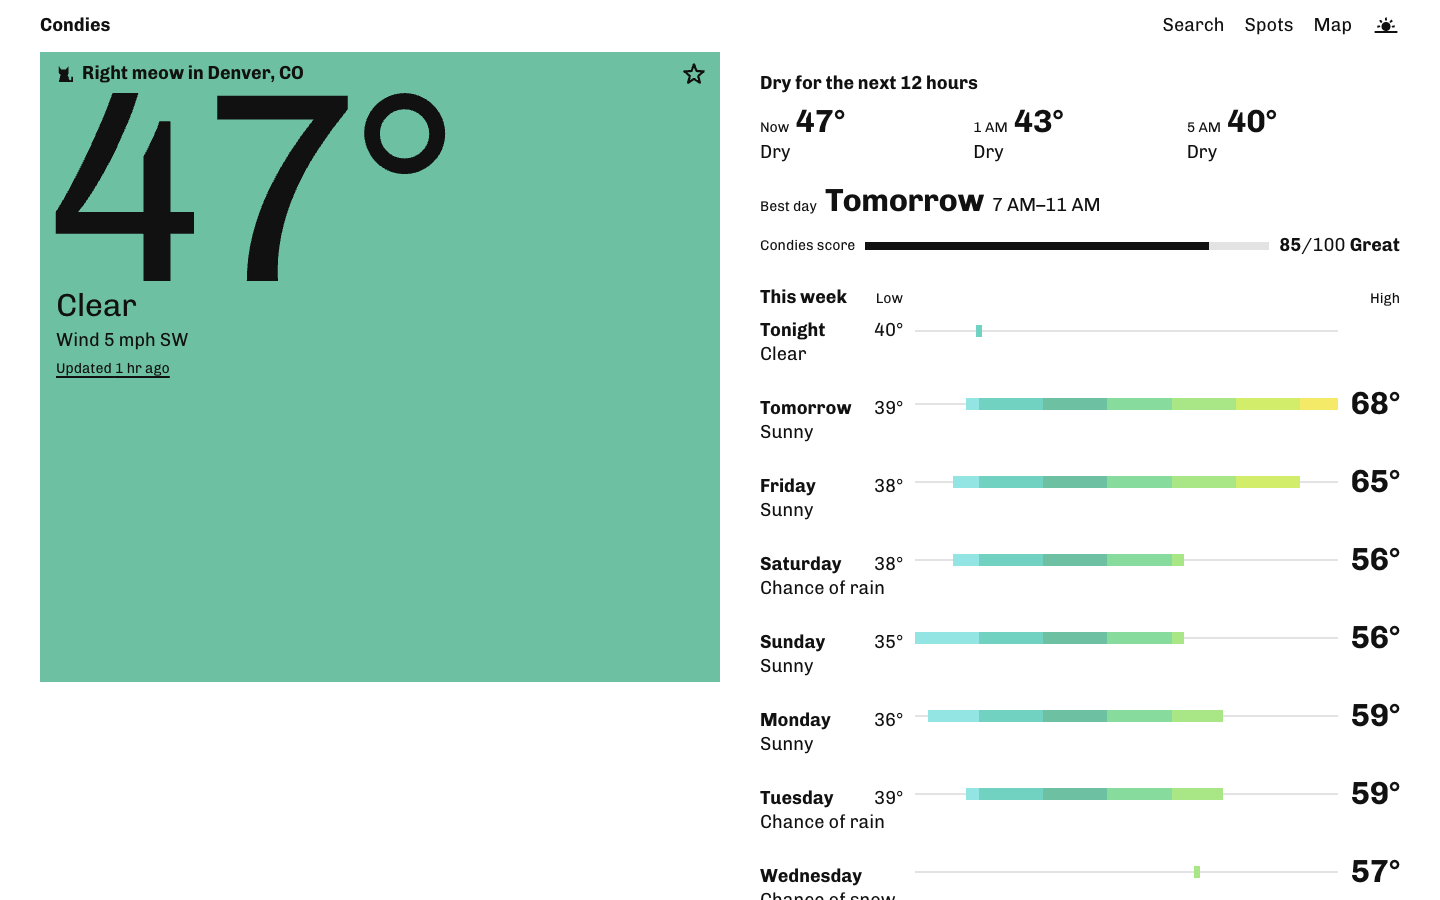
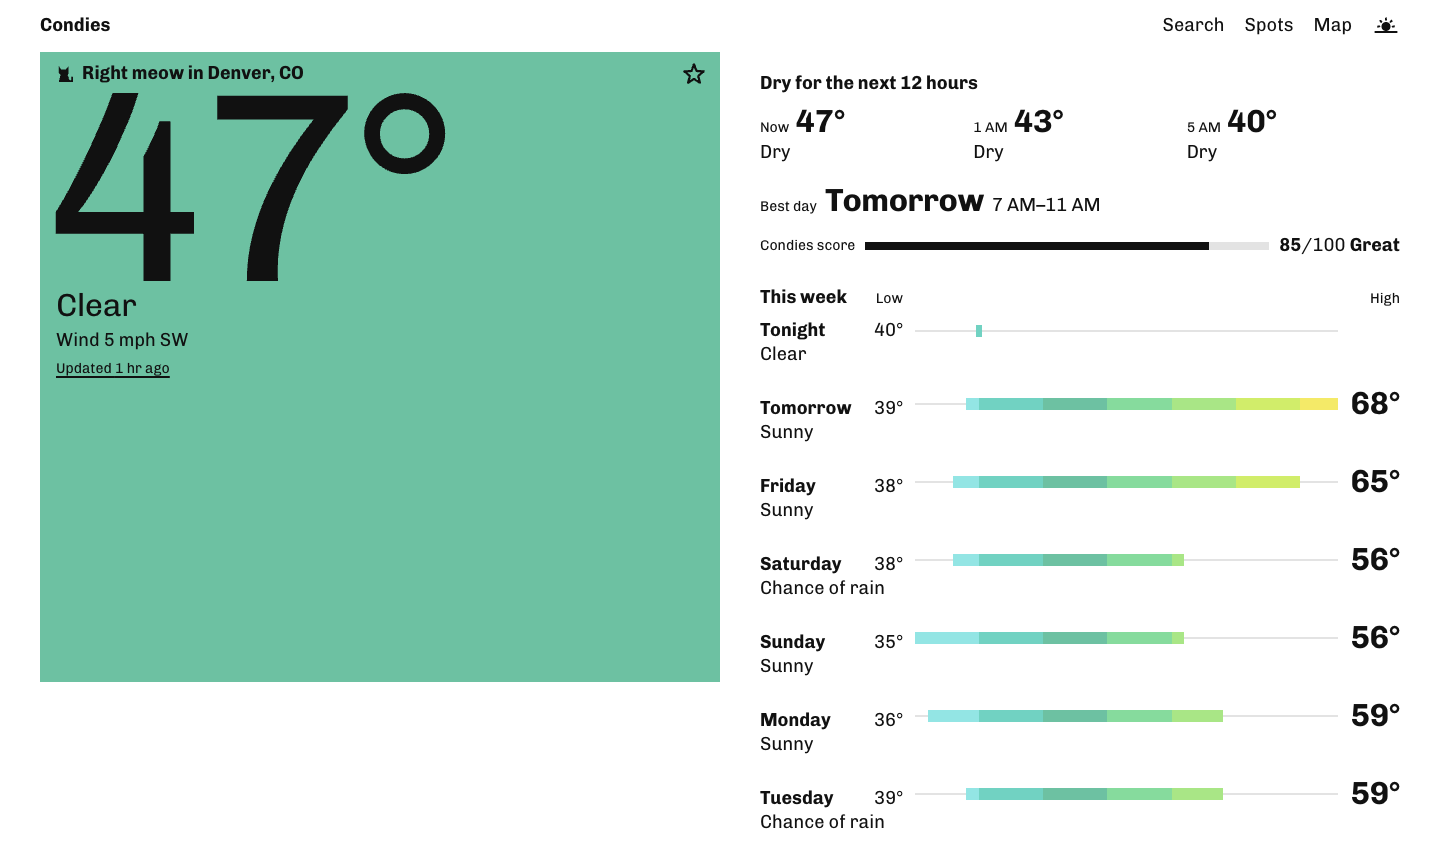
Fix the review's remaining page and hero findings
- Page intros sit on the 3:5 split: the headline spans, and the lede and
  any prose keep to the wide column on one right edge.
- The contact form is a spec table on the split, with hairline fields,
  a 2px error edge, and a lighter 2px focus ring.
- The Condies screenshots end on blank space between rows.
- The founder photo gets the screenshots' hairline frame, and the case
  study's live-site link a taller hit area.
- The hero keeps its labels down to 40rem, and only its labels set a
  part off; the drawings themselves aren't links.

diff --git a/src/styles/base.css b/src/styles/base.css
@@ -168,3 +168,43 @@ pre {
 .section {
   margin-top: var(--space-8);
 }
+
+/*
+ * A page's introduction, the first row of its sheet, on the page's split:
+ * the headline spans both columns, and the text under it (the lede, any
+ * prose, a line of contact details) keeps to the wide column, so it starts
+ * on the same column line as every section below. Wrap that text in one
+ * block: the block takes the body measure and its paragraphs fill it, so a
+ * lede and the prose under it end on one right edge. Below 40rem the
+ * columns stack.
+ */
+.page-intro {
+  column-gap: var(--split-gap);
+  display: grid;
+  grid-template-columns: var(--split);
+  row-gap: var(--space-5);
+}
+
+.page-intro > * {
+  grid-column: 2;
+  max-width: var(--measure);
+}
+
+.page-intro > h1 {
+  grid-column: 1 / -1;
+  max-width: none;
+}
+
+.page-intro > * p {
+  max-width: none;
+}
+
+@media (max-width: 40rem) {
+  .page-intro {
+    grid-template-columns: minmax(0, 1fr);
+  }
+
+  .page-intro > * {
+    grid-column: 1;
+  }
+}
